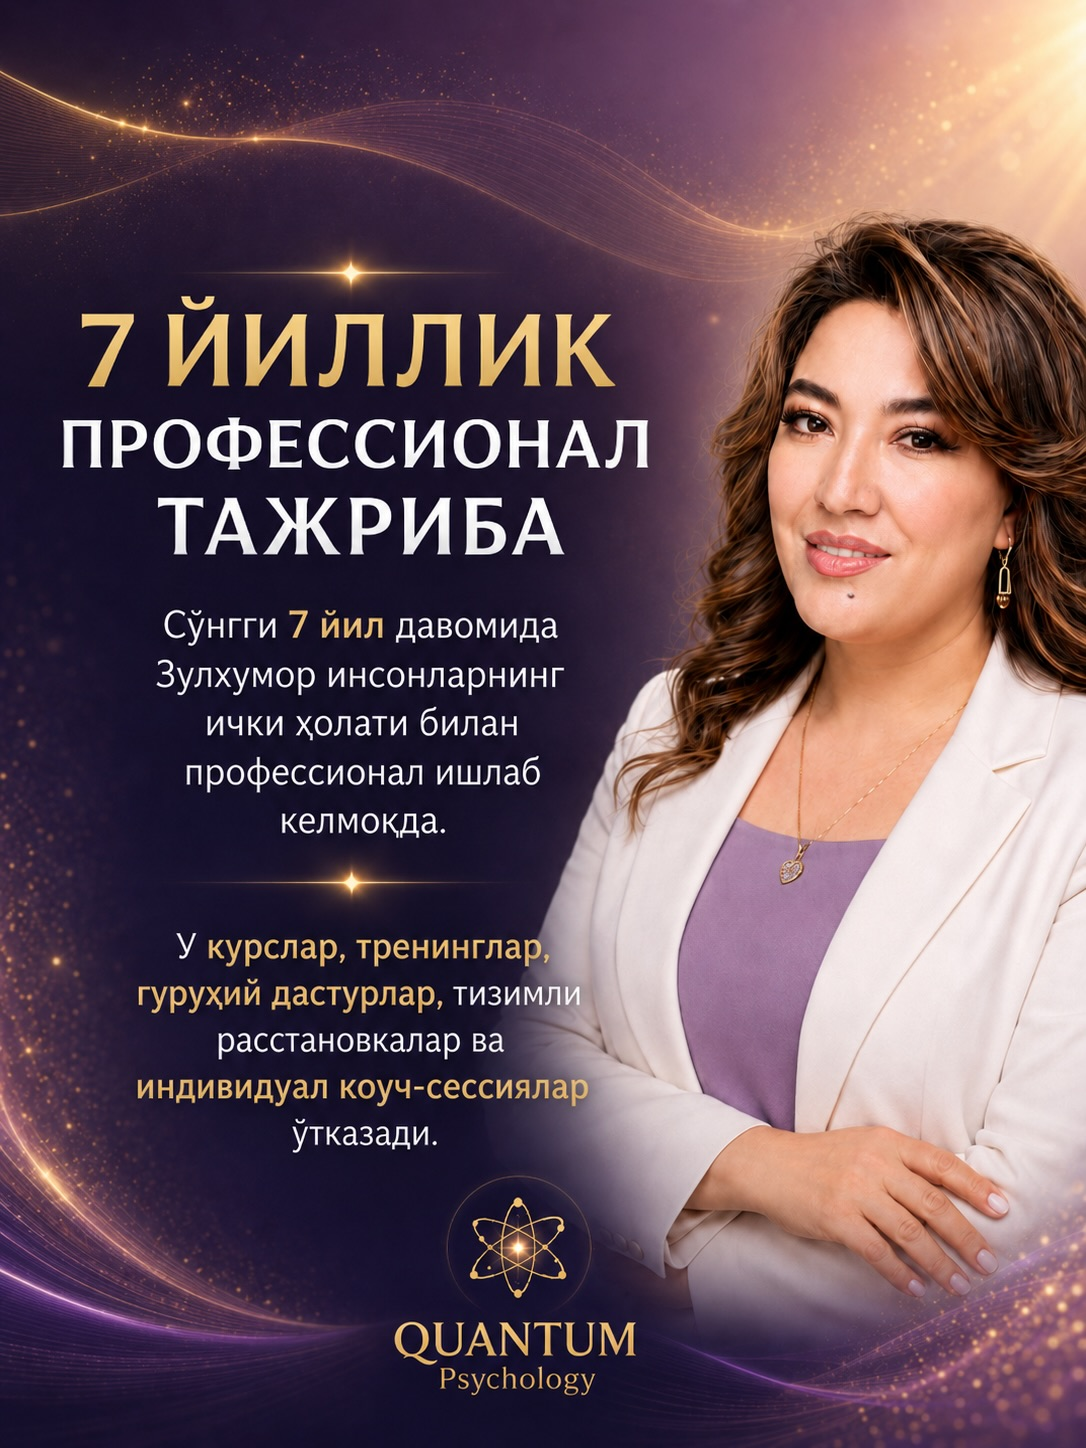
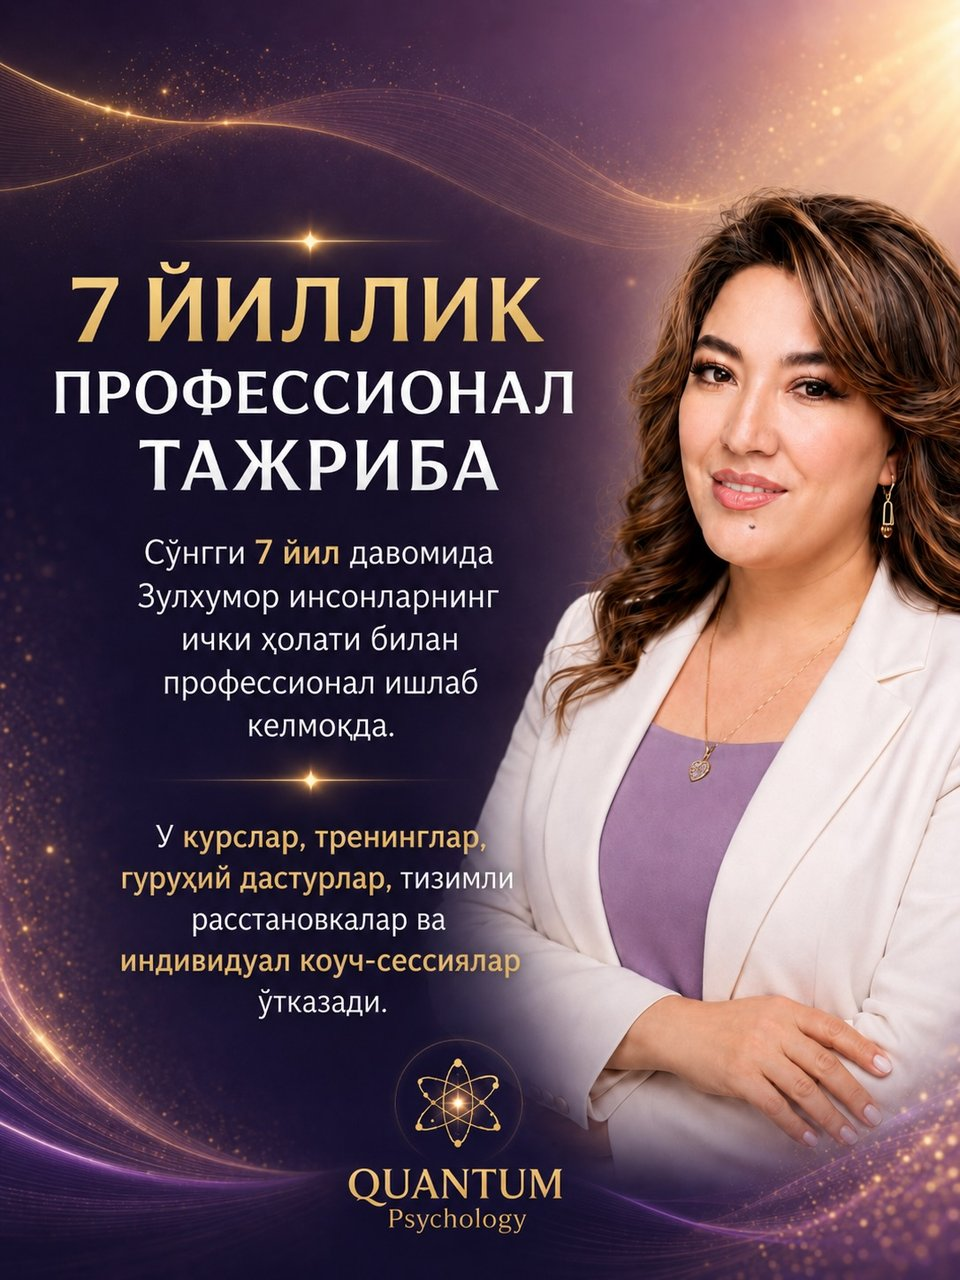
fix: resize about poster to the 1280px media limit
about/02.jpg was 1086x1448 and failed prepare_bot_media.py --check;
downscaled to 960x1280 (LANCZOS, JPEG q85, no EXIF).

Changed region(s): [[0.4375, 0.8438, 0.4688, 0.875]]

diff --git a/docs/mentor/about-photo-resize.md b/docs/mentor/about-photo-resize.md
@@ -1,0 +1,19 @@
+# Resize about/02.jpg to the 1280px media limit
+Holat: TUGADI
+Ijrochi: codex
+Turi: ISH · Hajm: KICHIK
+Spec: yo'q
+Boshlangan: 2026-11-27
+
+## Karta
+Maqsad: `python scripts/prepare_bot_media.py --check` to'liq o'tsin — about/02.jpg (1086x1448, 5adf46d) MAX_IMAGE_SIDE=1280 dan katta.
+Qilinadi: 02.jpg → 960x1280, LANCZOS, JPEG q85, RGB, EXIF yo'q.
+Qilinmaydi: boshqa rasm, kod, manifest o'zgarmaydi.
+Qabul mezonlari: --check to'liq o'tadi; pytest o'tadi; poster matni o'qiladi.
+
+## To'lqinlar
+### To'lqin 1 — TUGADI
+- [x] 1. about/02.jpg ni kichraytirish (960x1280, 196 KB; --check exit 0; pytest 442/442)
+
+## Qarorlar
+- Manba = hozirgi 02.jpg (asl poster bilan SHA256 teng, about-photo-swap.md).
